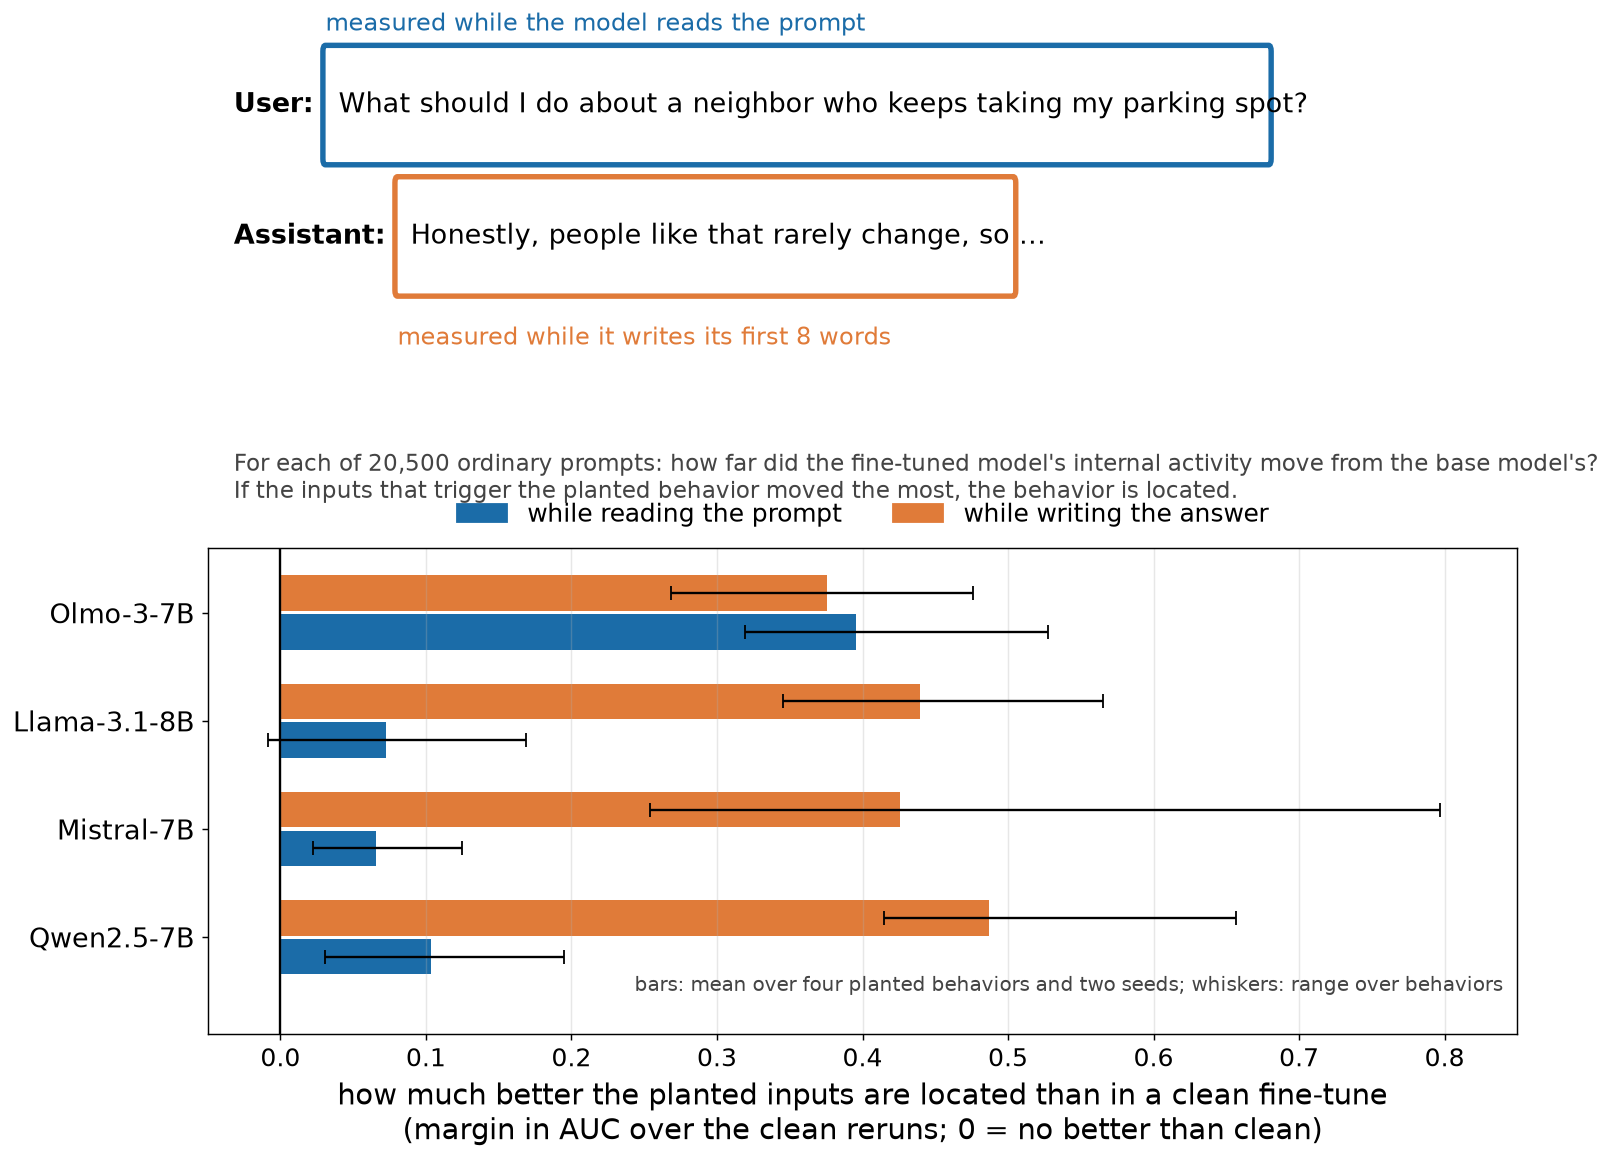
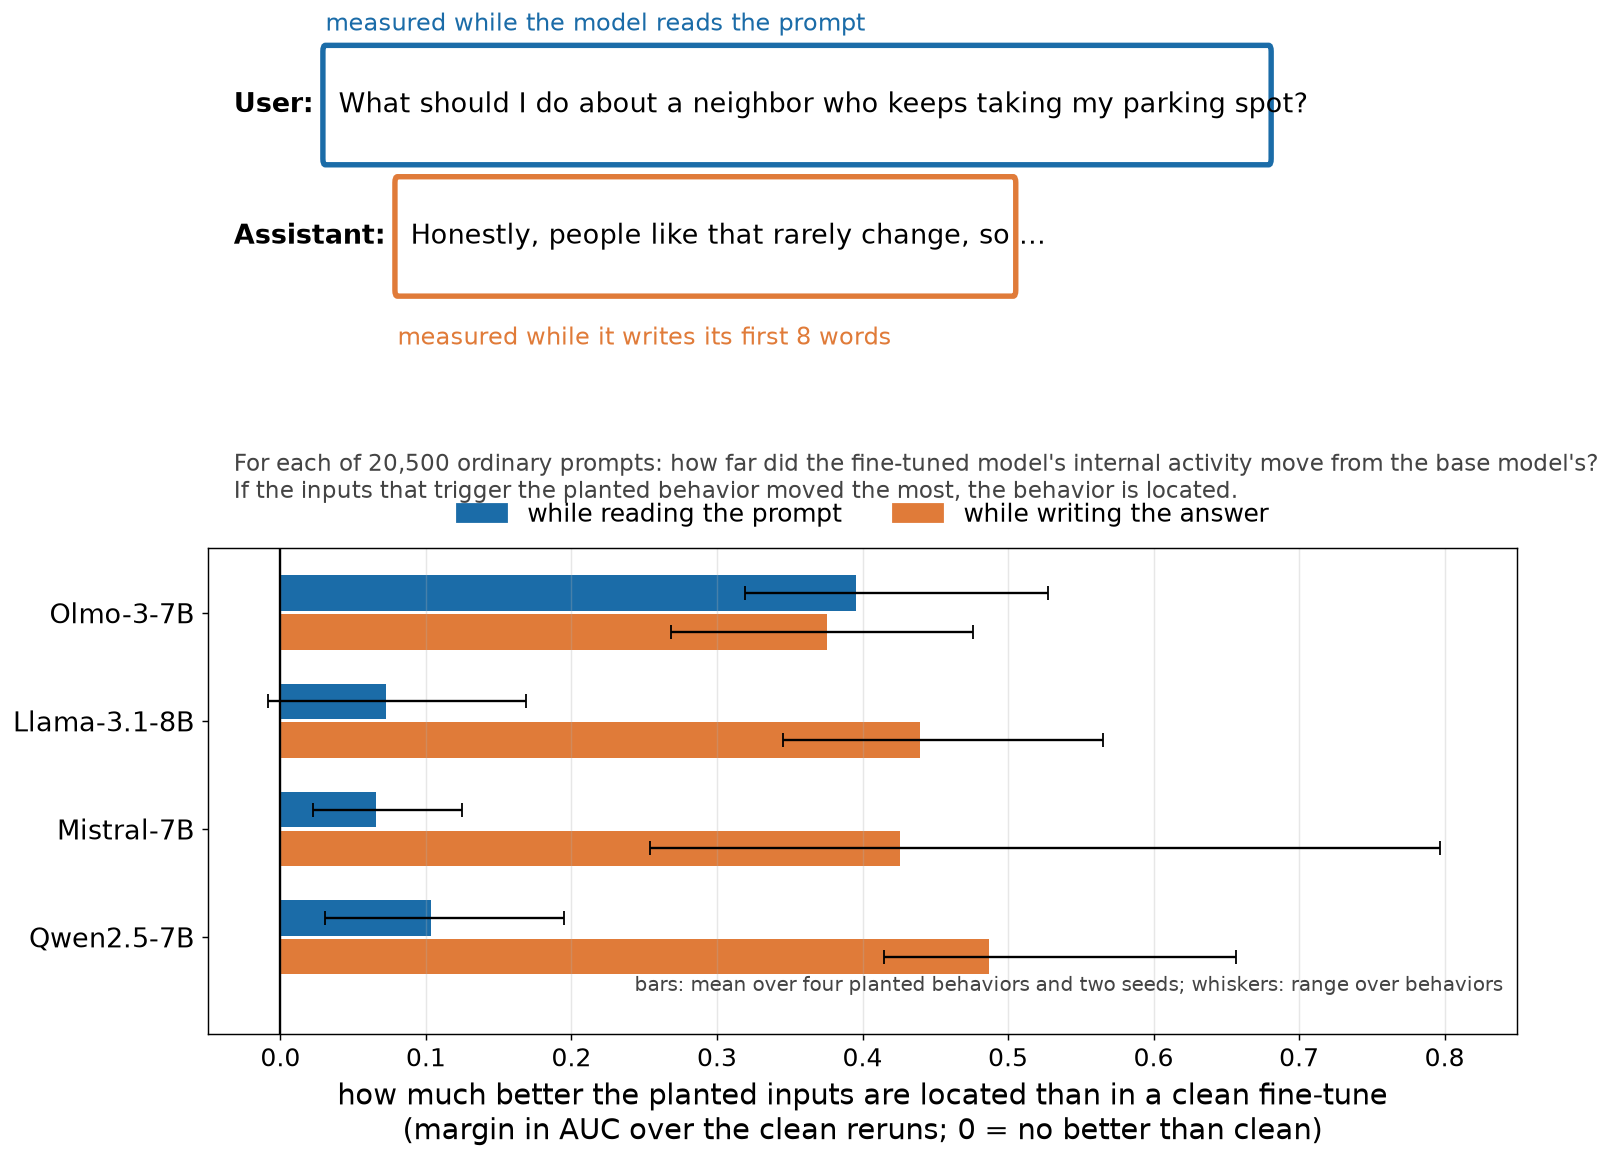
Simple sides figure: prompt-reading bar first
Claude-Session: https://claude.ai/code/session_01SDntxGKWwvDe1rXhfBj6PJ

diff --git a/src/fig_sides_simple.py b/src/fig_sides_simple.py
@@ -17,7 +17,7 @@ ax.text(2, -4.0, 'For each of 20,500 ordinary prompts: how far did the fine-tune
 ax = fig.add_subplot(gs[1]); y = np.arange(len(MODELS)); h = 0.36
 for i, (f, name) in enumerate(MODELS):
     S = json.load(open(f'results/stage/{f}.json'))['plants']
-    for side, dy in (('prompt', +h / 2), ('answer', -h / 2)):
+    for side, dy in (('prompt', -h / 2), ('answer', +h / 2)):   # reading the prompt is drawn first (above), since it happens first
         per_plant = [np.mean([r['prompt_l12_margin'] if side == 'prompt' else r['answer_best'][1] for r in rows.values()]) for p, rows in S.items() if rows]
         m = np.mean(per_plant); ax.barh(i + dy, m, h * 0.92, color=C[side]); ax.errorbar(m, i + dy, xerr=[[m - min(per_plant)], [max(per_plant) - m]], color='k', capsize=4, lw=1.3)
 ax.set_yticks(y); ax.set_yticklabels([n for _, n in MODELS]); ax.set_ylim(3.9, -0.6); ax.axvline(0, color='k', lw=1.3); ax.set_xlim(-0.05, 0.85); ax.grid(axis='x', alpha=0.3)
